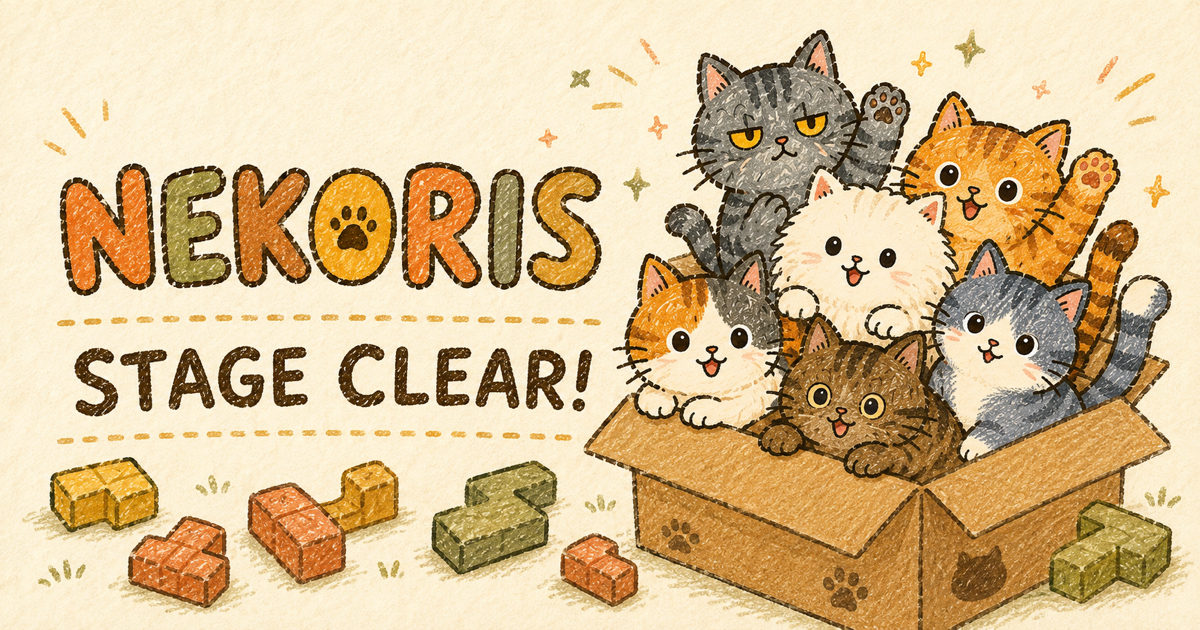
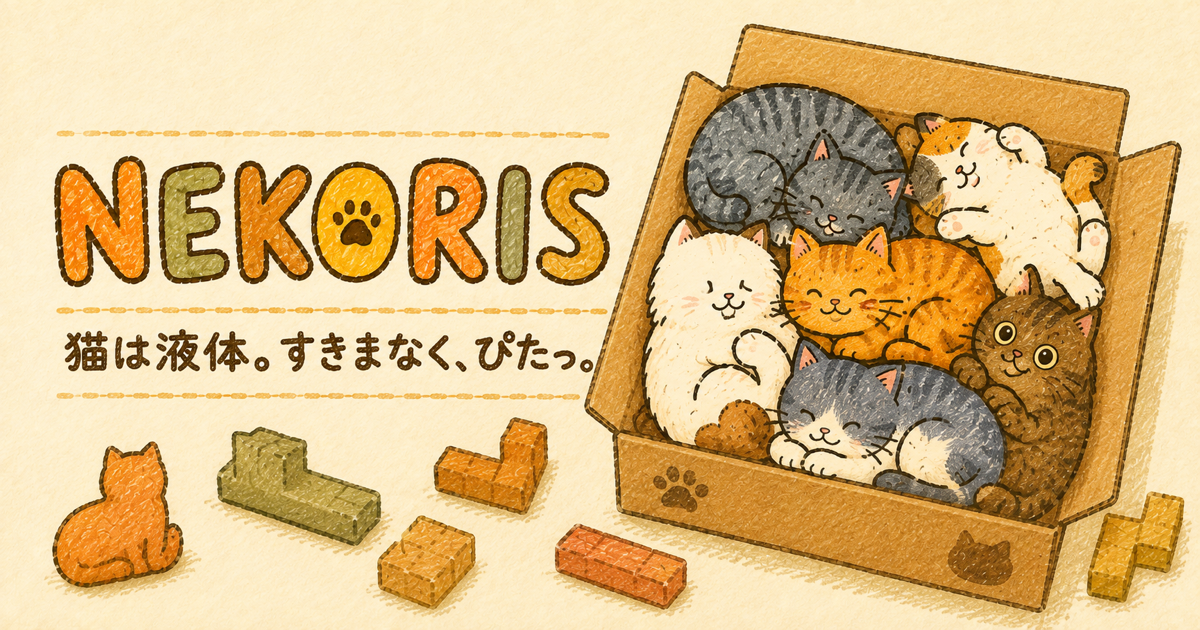
Separate Nekoris OGP and clear card

diff --git a/nekoris/index.html b/nekoris/index.html
@@ -12,7 +12,7 @@
     <meta property="og:image" content="https://asobi-nekoris.vercel.app/og.png" />
     <meta property="og:image:width" content="1200" />
     <meta property="og:image:height" content="630" />
-    <meta property="og:image:alt" content="ネコリス STAGE CLEAR! 箱から顔を出す猫たち" />
+    <meta property="og:image:alt" content="ネコリス 猫は液体。箱の中にパズルのように収まる猫たち" />
     <meta name="twitter:card" content="summary_large_image" />
     <meta name="twitter:title" content="ネコリス｜猫は液体。すきまなく、ぴたっ。" />
     <meta name="twitter:description" content="寝相の違う猫を、段ボール箱へすきまなく詰めるパズルゲーム。" />
@@ -116,7 +116,7 @@
     </dialog>
 
     <dialog class="game-dialog clear-dialog" id="clearDialog">
-      <img class="clear-illustration" src="./og.png" alt="箱から顔を出してステージクリアを喜ぶ猫たち" />
+      <img class="clear-illustration" src="./clear-card.png" alt="箱から顔を出してステージクリアを喜ぶ猫たち" />
       <p class="eyebrow">PACKED PERFECTLY!</p>
       <p class="clear-stage" id="clearStage">STAGE 1 CLEAR!</p>
       <h2>ぴたっと、おさまりました。</h2>
